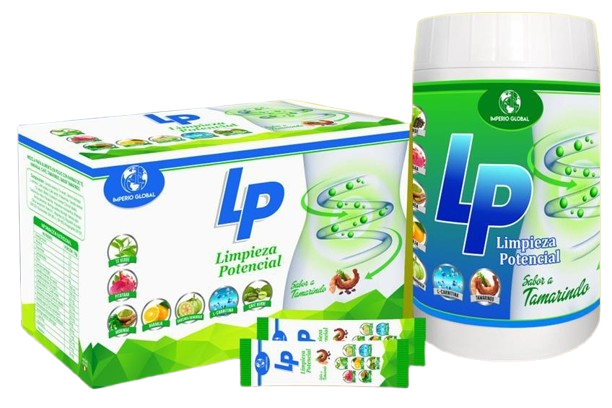
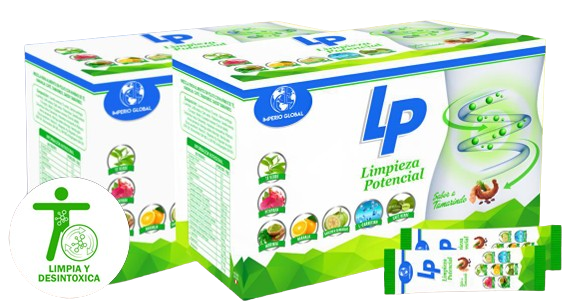
Subiendo correcciones

diff --git a/src/app/pages/web/home/home.component.html b/src/app/pages/web/home/home.component.html
@@ -73,7 +73,7 @@
             </div>
             <div class="plan-benefits">
               <ul>
-                <li>12 Productos</li>
+                <li>10 Productos</li>
                 <li>Oficina Virtual</li>
                 <li>Libro Educativo</li>
                 <li>45% Desct.</li>
@@ -979,8 +979,13 @@
               <i class="fas fa-map-marked-alt" style="font-size: 22px;"></i>
             </div>
             <div>
-              <small>OFICINA PRINCIPAL</small>
-              <strong>Calle Berlín N.° 414, Ate Vitarte<br>Lima, Perú</strong>
+              <small style="color: rgba(161, 160, 160, 0.7);">OFICINA PRINCIPAL</small>
+              <strong style="display: block; color: #000000; line-height: 1.5; margin-top: 3px;">
+                Av. Metropolitana ceres Mz J1 LOTE 55<br>
+                <span style="color: rgba(33, 38, 42, 0.8); font-weight: 400; font-size: 13px;">
+                  Ref.: Paradero chuletón, al auxiliar de la panadería don Tomy.
+                </span>
+              </strong>
             </div>
           </div>
         </div>